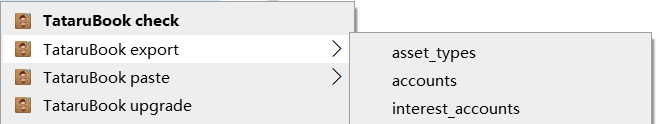
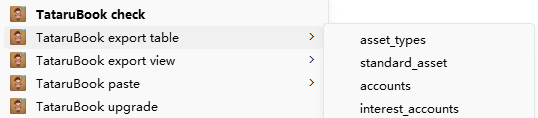
Update all documents to reflect the change that "export" context menu has been split to "export table" and "export view"

diff --git a/docs/quick_start.md b/docs/quick_start.md
@@ -25,7 +25,7 @@ This operation also creates the `accounting.db` file. In fact, when using Tataru
 
 Next, in order to do bookkeeping, you need to add a currency type first. Adding a currency type requires modifying the [asset_types]({{ site.baseurl }}/tables_and_views.html#asset_types) table. In order to modify the table contents, you need to know what fields the table includes first. We recommend exporting this table using the `export` command before modifying it.
 
-Right-click on the `accounting.db` file you just created and select `asset_types` under the `TataruBook export` submenu:
+Right-click on the `accounting.db` file you just created and select `asset_types` under the `TataruBook export table` submenu:
 
 ![context menu for a DB file]({{ site.baseurl }}/assets/images/context_menu.png)
 
@@ -85,7 +85,7 @@ TataruBook automatically performs a data consistency check after each data modif
 
 # Start bookkeeping
 
-Let's start by adding a bank account: right-click on the `accounting.db` file, select `accounts` under the `TataruBook export` submenu, open the resulting `accounts.csv` file and add one line of content:
+Let's start by adding a bank account: right-click on the `accounting.db` file, select `accounts` under the `TataruBook export table` submenu, open the resulting `accounts.csv` file and add one line of content:
 
 | account_index | account_name | asset_index | is_external |
 |:-:|:-:|:-:|:-:|
@@ -129,7 +129,7 @@ Then, add two purchases to [postings]({{ site.baseurl }}/tables_and_views.html#p
 || 2023-1-5 | Sharlayan Bank current | -20 | Food and Beverages | Breakfast at Inn |
 || 2023-1-7 | Sharlayan Bank current | -45 | Food and Beverages | Dinner at the Last Stand |
 
-After the execution is complete, right-click on the `accounting.db` file and select `statements` under the `TataruBook export` submenu to export the [statements]({{ site.baseurl }}/tables_and_views.html#statements) view. Open the `statements.csv` file that appears in the folder with Excel and you'll see the following:
+After the execution is complete, right-click on the `accounting.db` file and select `statements` under the `TataruBook export view` submenu to export the [statements]({{ site.baseurl }}/tables_and_views.html#statements) view. Open the `statements.csv` file that appears in the folder with Excel and you'll see the following:
 
 | posting_index | trade_date | account_index | amount | target | comment | src_name | asset_index | is_external | target_name | balance |
 |:-:|:-:|:-:|:-:|:-:|:-:|:-:|:-:|:-:|:-:|:-:|
@@ -285,7 +285,7 @@ This is because TataruBook needs to know the value of the other assets measured 
 
 It is now possible to view all records on [end_stats]({{ site.baseurl }}/tables_and_views.html#end_stats) view to see all account balances and market values on the [end_date]({{ site.baseurl }}/tables_and_views.html#end_date):
 
-If you follow this tutorial all along, now there is already an `end_stats.csv` file existing in this folder because we've exported it before. In this circumstance, when you execute `TataruBook export`, you will see an error message and that file will not be updated. That's because TataruBook avoids accidentally damaging existing files. So you need to delete the `end_stats.csv` file first, and then execute `TataruBook export`.
+If you follow this tutorial all along, now there is already an `end_stats.csv` file existing in this folder because we've exported it before. In this circumstance, when you execute `TataruBook export view`, you will see an error message and that file will not be updated. That's because TataruBook avoids accidentally damaging existing files. So you need to delete the `end_stats.csv` file first, and then execute `TataruBook export view`.
 {: .notice--warning}
 
 | asset_order | date_val | account_index | account_name | balance | asset_index | asset_name | price | market_value | proportion |

diff --git a/docs/commands_jp.md b/docs/commands_jp.md
@@ -16,7 +16,8 @@ TataruBookはコマンドベースのプログラムですが、Windows 10以降
 |:-:|:-:|:-:|
 | フォルダー内の空白を右クリックする | TataruBook create DB file | [init]({{ site.baseurl }}/commands_cn.html#init) |
 | データベースファイルを右クリックする | TataruBook check | [check]({{ site.baseurl }}/commands_cn.html#check) |
-| データベースファイルを右クリックする | TataruBook export | [export]({{ site.baseurl }}/commands_cn.html#export) |
+| データベースファイルを右クリックする | TataruBook export table | [export]({{ site.baseurl }}/commands_cn.html#export) |
+| データベースファイルを右クリックする | TataruBook export view | [export]({{ site.baseurl }}/commands_cn.html#export) |
 | データベースファイルを右クリックする | TataruBook paste | [paste]({{ site.baseurl }}/commands_cn.html#paste) |
 | データベースファイルを右クリックする | TataruBook upgrade | [upgrade]({{ site.baseurl }}/commands_cn.html#upgrade) |
 

diff --git a/docs/commands.md b/docs/commands.md
@@ -13,7 +13,8 @@ The following is a list of commands that can be invoked from the context menu. C
 |:-:|:-:|:-:|
 | Right-click on the background of a folder's content | TataruBook create DB file | [init]({{ site.baseurl }}/commands.html#init) |
 | Right-click on a DB file | TataruBook check | [check]({{ site.baseurl }}/commands.html#check) |
-| Right-click on a DB file | TataruBook export | [export]({{ site.baseurl }}/commands.html#export) |
+| Right-click on a DB file | TataruBook export table | [export]({{ site.baseurl }}/commands.html#export) |
+| Right-click on a DB file | TataruBook export view | [export]({{ site.baseurl }}/commands.html#export) |
 | Right-click on a DB file | TataruBook paste | [paste]({{ site.baseurl }}/commands.html#paste) |
 | Right-click on a DB file | TataruBook upgrade | [upgrade]({{ site.baseurl }}/commands.html#upgrade) |
 

diff --git a/docs/commands_cn.md b/docs/commands_cn.md
@@ -15,7 +15,8 @@ TataruBook是基于命令行的程序，但是在Windows 10或更高版本中提
 |:-:|:-:|:-:|
 | 文件夹内容空白处点右键 | TataruBook create DB file | [init]({{ site.baseurl }}/commands_cn.html#init) |
 | DB文件上点右键 | TataruBook check | [check]({{ site.baseurl }}/commands_cn.html#check) |
-| DB文件上点右键 | TataruBook export | [export]({{ site.baseurl }}/commands_cn.html#export) |
+| DB文件上点右键 | TataruBook export table | [export]({{ site.baseurl }}/commands_cn.html#export) |
+| DB文件上点右键 | TataruBook export view | [export]({{ site.baseurl }}/commands_cn.html#export) |
 | DB文件上点右键 | TataruBook paste | [paste]({{ site.baseurl }}/commands_cn.html#paste) |
 | DB文件上点右键 | TataruBook upgrade | [upgrade]({{ site.baseurl }}/commands_cn.html#upgrade) |
 
